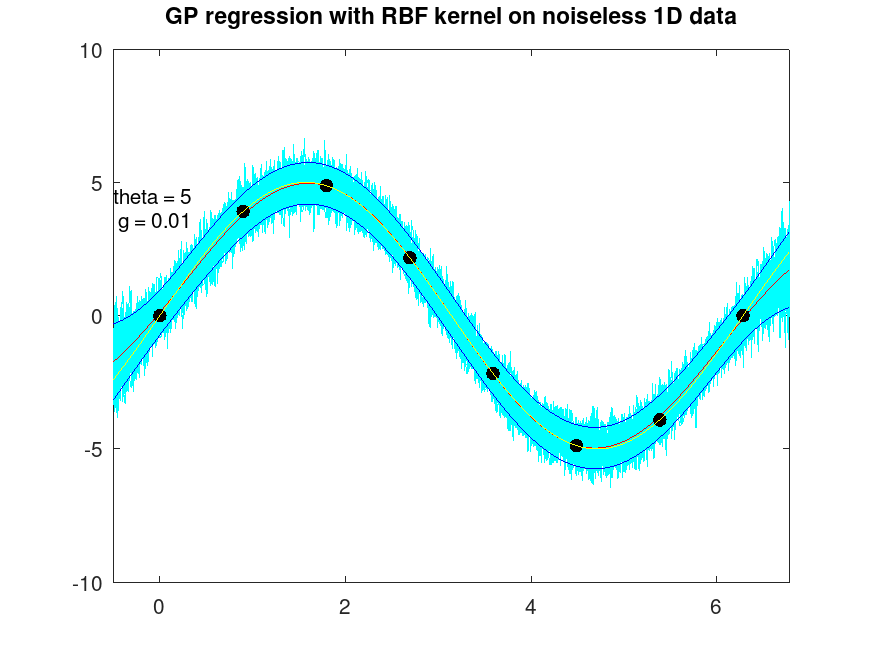
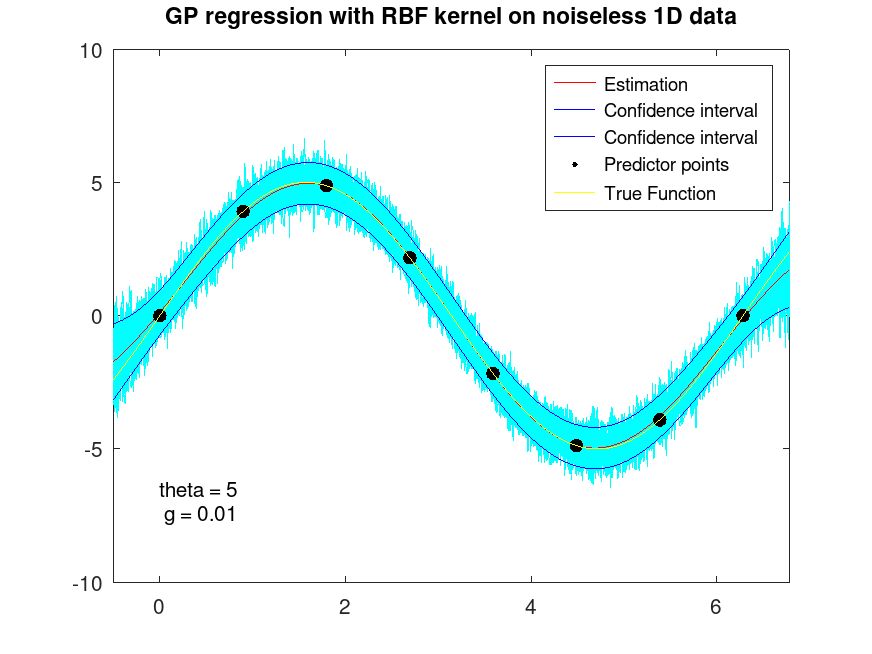
update documentation

Changed region(s): [[0.6812, 0.1223, 0.867, 0.3058], [0.1239, 0.2752, 0.2167, 0.367], [0.1858, 0.7339, 0.2787, 0.7951]]

diff --git a/docs/regress_gp.html b/docs/regress_gp.html
@@ -555,14 +555,14 @@
  r = mvnrnd (Yfit, diag (Ysd)', 50);
  plot (xi, r', "c-");
  hold on
- plot (xi, Yfit, "r-", xi, Yint, "b-");
- plot (x, y, ".k", "markersize", 20)
- plot (xi, 5 * sin (xi), "-y");
+ plot (xi, Yfit, "r-;Estimation;", xi, Yint, "b-;Confidence interval;");
+ plot (x, y, ".k;Predictor points;", "markersize", 20)
+ plot (xi, 5 * sin (xi), "-y;True Function;");
  xlim ([-0.5,2*pi+0.5]);
  ylim ([-10,10]);
  hold off
  title ("GP regression with RBF kernel on noiseless 1D data");
- text (-0.5, 4, "theta = 5\n g = 0.01");
+ text (0, -7, "theta = 5\n g = 0.01");
 
                     </pre></td></tr></tbody>
                   </table>
@@ -609,14 +609,14 @@
  r = mvnrnd (Yfit, diag (Ysd)', 50);
  plot (xi, r', "c-");
  hold on
- plot (xi, Yfit, "r-", xi, Yint, "b-");
- plot (x, y, ".k", "markersize", 20)
- plot (xi, 5 * sin (xi), "-y");
+ plot (xi, Yfit, "r-;Estimation;", xi, Yint, "b-;Confidence interval;");
+ plot (x, y, ".k;Predictor points;", "markersize", 20)
+ plot (xi, 5 * sin (xi), "-y;True Function;");
  xlim ([-0.5,2*pi+0.5]);
  ylim ([-10,10]);
  hold off
  title ("GP regression with RBF kernel on noisy 1D data");
- text (-0.5, 4, "theta = 5\n g = 0.01");
+ text (0, -7, "theta = 5\n g = 0.01");
 
                     </pre></td></tr></tbody>
                   </table>

diff --git a/docs/mnrfit.html b/docs/mnrfit.html
@@ -104,7 +104,7 @@
  additional parameterss specified <code>Name-Value</code> pair arguments.
 </p>
  <table>
-<thead><tr><th width="18%"></th><th width="2%"><var>Name</var></th><th width="80%"><var>Value</var></th></tr></thead>
+<thead><tr><th width="18%"><var>Name</var></th><th width="2%"></th><th width="80%"><var>Value</var></th></tr></thead>
 <tr><td width="18%"><code>&quot;model&quot;</code></td><td width="2%"></td><td width="80%">Specifies the type of model to fit.
  Currently, only <code>&quot;ordinal&quot;</code> is fully supported.  <code>&quot;nominal&quot;</code> is
  only supported for 2 classes in <var>Y</var>.</td></tr>
